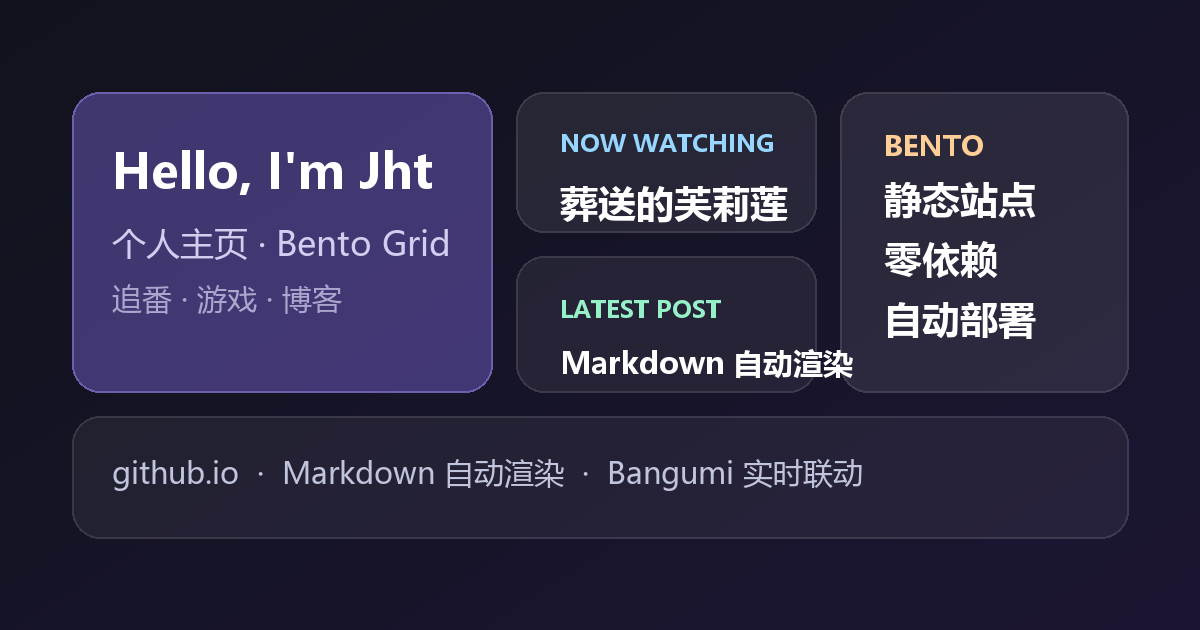
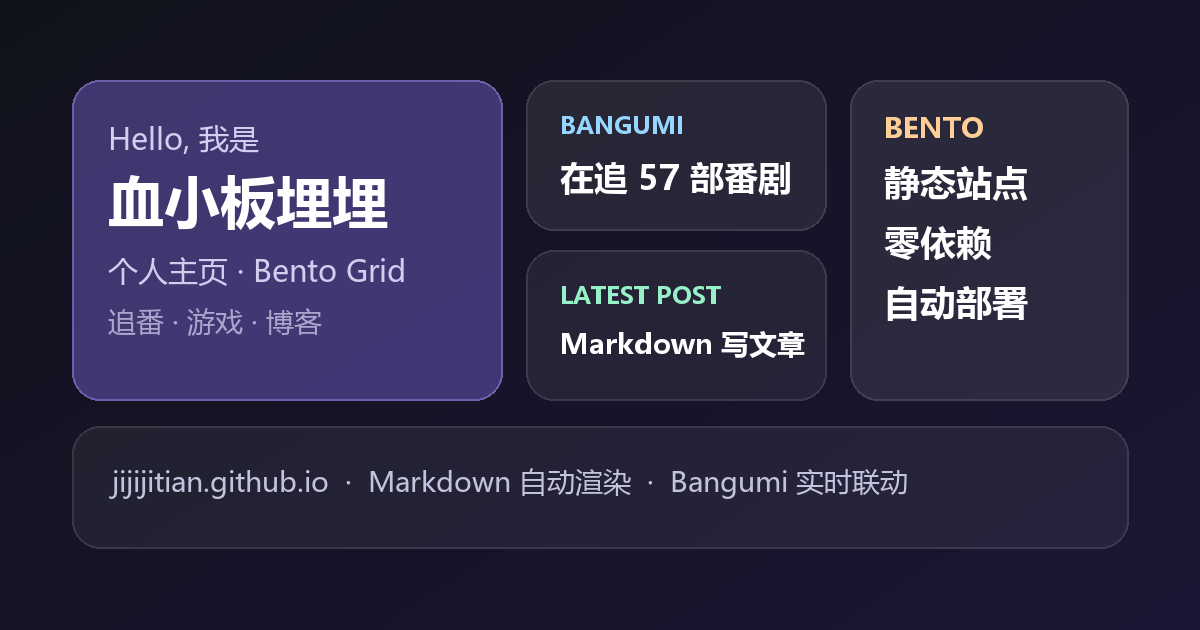
feat: 接入血小板埋埋的 Bangumi（623062），更新头像与品牌

diff --git a/index.html b/index.html
@@ -3,22 +3,22 @@
   <head>
     <meta charset="UTF-8" />
     <meta name="viewport" content="width=device-width, initial-scale=1.0" />
-    <title>Jht 的小站 · 番剧、游戏与代码</title>
-    <meta name="description" content="Jht 的个人主页：Bento Grid 布局，联动 Bangumi 展示正在追的番剧和游戏，用 Markdown 写文章，自动部署到 GitHub Pages。" />
-    <meta name="author" content="Jht" />
+    <title>血小板埋埋的小站 · 番剧、游戏与代码</title>
+    <meta name="description" content="血小板埋埋的个人主页：Bento Grid 布局，联动 Bangumi 展示正在追的番剧和游戏，用 Markdown 写文章，自动部署到 GitHub Pages。" />
+    <meta name="author" content="血小板埋埋" />
     <meta name="theme-color" content="#0a0b0f" media="(prefers-color-scheme: dark)" />
     <meta name="theme-color" content="#f4f5f8" media="(prefers-color-scheme: light)" />
 
     <!-- Open Graph -->
     <meta property="og:type" content="website" />
-    <meta property="og:title" content="Jht 的小站" />
+    <meta property="og:title" content="血小板埋埋的小站" />
     <meta property="og:description" content="番剧、游戏与代码的个人角落。" />
     <meta property="og:image" content="assets/img/og-cover.png" />
     <meta name="twitter:card" content="summary_large_image" />
 
     <link rel="icon" href="assets/img/avatar.png" type="image/png" />
     <link rel="apple-touch-icon" href="assets/img/avatar.png" />
-    <link rel="alternate" type="application/rss+xml" title="Jht 的小站 · RSS" href="feed.xml" />
+    <link rel="alternate" type="application/rss+xml" title="血小板埋埋的小站 · RSS" href="feed.xml" />
 
     <link rel="stylesheet" href="assets/css/base.css" />
     <link rel="stylesheet" href="assets/css/home.css" />
@@ -43,7 +43,7 @@
       <div class="wrap">
         <a class="brand" href="./" aria-label="回到首页">
           <span class="brand__dot"></span>
-          <span class="brand__name" data-bind="siteTitle">Jht 的小站</span>
+          <span class="brand__name" data-bind="siteTitle">血小板埋埋的小站</span>
         </a>
 
         <nav class="nav" aria-label="主导航">
@@ -71,9 +71,9 @@
           <div class="intro__top">
             <div>
               <p class="intro__hello" data-bind="greeting">你好，我是</p>
-              <h1 class="intro__name" data-bind="name">Jht</h1>
+              <h1 class="intro__name" data-bind="name">血小板埋埋</h1>
             </div>
-            <img class="intro__avatar" data-bind-src="avatar" src="assets/img/avatar.png" alt="Jht 的头像" width="84" height="84" />
+            <img class="intro__avatar" data-bind-src="avatar" src="assets/img/avatar.png" alt="血小板埋埋的头像" width="84" height="84" />
           </div>
 
           <div class="tile__body">
@@ -258,7 +258,7 @@
     <!-- ================= 页脚 ================= -->
     <footer class="site-footer">
       <div class="wrap">
-        <p>© <span id="year">2026</span> <span data-bind="fullName">Jht</span> · <span data-bind="siteTitle">Jht 的小站</span></p>
+        <p>© <span id="year">2026</span> <span data-bind="fullName">血小板埋埋</span> · <span data-bind="siteTitle">血小板埋埋的小站</span></p>
         <div class="footer-links">
           <a href="posts/">文章</a>
           <a href="feed.xml">RSS</a>

diff --git a/assets/js/config.js b/assets/js/config.js
@@ -5,11 +5,11 @@
  */
 window.SITE_CONFIG = {
   /* ---------- 身份 ---------- */
-  name: "Jht", // 显示名（昵称）
-  fullName: "Jht", // 全名，页脚用
+  name: "血小板埋埋", // 显示名（昵称）
+  fullName: "血小板埋埋", // 全名，页脚用
   handle: "@jijijitian", // 社交账号
   avatar: "assets/img/avatar.png", // 头像，可换成自己的图片
-  siteTitle: "Jht 的小站", // 浏览器标签 / 页脚
+  siteTitle: "血小板埋埋的小站", // 浏览器标签 / 页脚
   description: "一个关于番剧、游戏和代码的个人角落。",
   url: "https://jijijitian.github.io/", // 部署后的线上地址（RSS / sitemap 用）
   lang: "zh-CN",
@@ -18,20 +18,22 @@ window.SITE_CONFIG = {
   greeting: "你好，我是",
   headline: "白天写代码，晚上追番，偶尔打游戏。",
   bio: "这里记录我喜欢的东西：番剧、游戏、还有折腾出来的小玩意儿。喜欢 Bento Grid，因为每个格子都能装一点生活。",
-  location: "中国 · 某座城市",
+  location: "苏州 · 江苏",
   status: "保持好奇，缓慢生长",
   tags: ["前端", "Markdown", "番剧", "游戏", "折腾"],
 
   /* ---------- Bangumi ---------- */
   bangumi: {
     // 你的 Bangumi 用户名（bgm.tv/user/ 后面的那段）
-    username: "your_bangumi_id",
-    nickname: "yourid",
+    username: "623062",
+    nickname: "血小板埋埋",
     // true = 浏览器实时请求 Bangumi 公开 API（数据最新，需要联网）
     // false = 使用 assets/data/bangumi.json 里的快照（离线可用，可定时刷新）
     live: true,
     // 实时请求失败时自动回退到快照；快照路径
     snapshot: "assets/data/bangumi.json",
+    // 是否隐藏 Bangumi 里标记为「里番 / R18」的收藏（公开主页建议保持 true）
+    hideAdult: true,
     // 首页展示数量
     animeLimit: 3,
     gameLimit: 3,
@@ -42,7 +44,7 @@ window.SITE_CONFIG = {
   /* ---------- 社交链接 ---------- */
   socials: [
     { label: "GitHub", href: "https://github.com/jijijitian", icon: "github" },
-    { label: "Bangumi", href: "https://bgm.tv/", icon: "bangumi" },
+    { label: "Bangumi", href: "https://bgm.tv/user/623062", icon: "bangumi" },
     { label: "Email", href: "mailto:jihaotian0627@foxmail.com", icon: "mail" },
     { label: "RSS", href: "feed.xml", icon: "rss" },
   ],

diff --git a/assets/js/bangumi.js b/assets/js/bangumi.js
@@ -122,6 +122,9 @@
       ep: Number(item.ep_status) || 0,
       total: Number(subject.eps) || (kind === "game" ? 0 : FALLBACK_EPS),
       status: TYPE_LABEL[item.type] || "",
+      tags: (subject.tags || [])
+        .map((t) => (typeof t === "string" ? t : t && t.name))
+        .filter(Boolean),
       type: item.type,
       rate: item.rate || 0,
       comment: item.comment || "",
@@ -130,12 +133,16 @@
     };
   }
 
+  const ADULT_TAGS = /(里番|18禁|R-?18|成人向|工口)/i;
+  const hideAdult = bgm.hideAdult !== false;
+  const isAdult = (entry) => hideAdult && entry.tags.some((t) => ADULT_TAGS.test(t));
+
   /** 只保留「在看 / 在玩」，优先展示进度未完成、最近更新的 */
   function pickActive(list, kind, limit) {
     const active = (list || [])
       .filter((item) => item && item.type === 3)
       .map((item) => normalize(item, kind))
-      .filter((item) => item.id);
+      .filter((item) => item.id && !isAdult(item));
 
     active.sort((a, b) => {
       const doneA = a.total > 0 && a.ep >= a.total;
